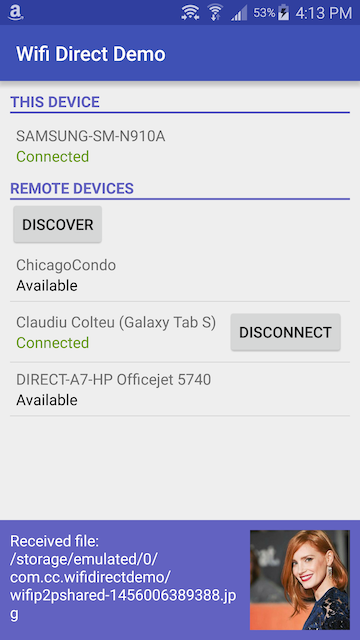
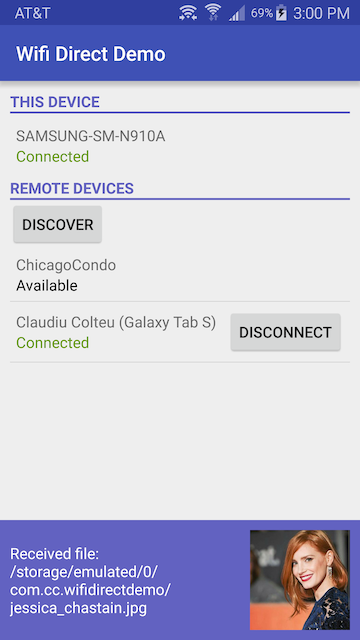
updated readme

diff --git a/README.md b/README.md
@@ -9,6 +9,8 @@ The device that initiates the connection will be the sender, while the device th
 5. the receiver device will receive the photo
 6. press DISCONNECT on any device
 
+Note that the photo filename is sent along as well so that it is preserved on the receiving device (see Receiver screenshot below). As a matter of fact 1kB worth of metadata (currently just the file name) is pre-pended to the photo byte array stream when sent and parsed on the receiving end.
+
 Sender (initiates the connection):
 
 ![Alt text](/sender.png?raw=true "initiates connection to send")
